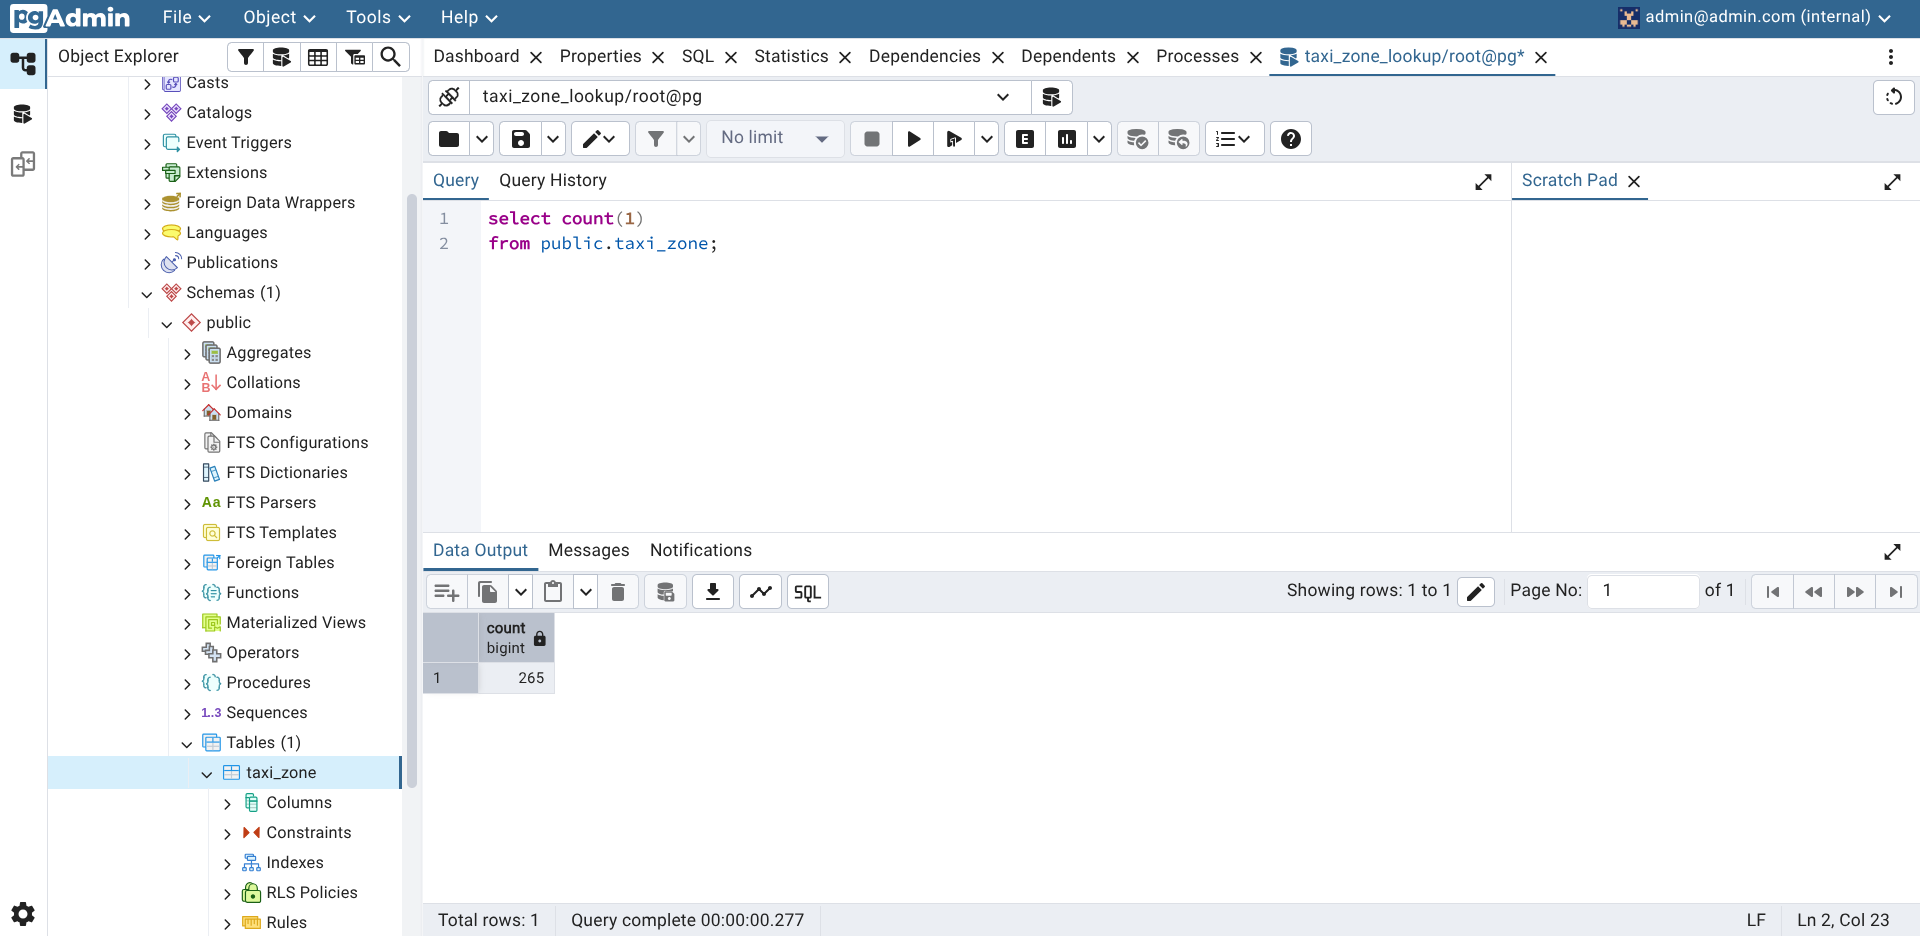
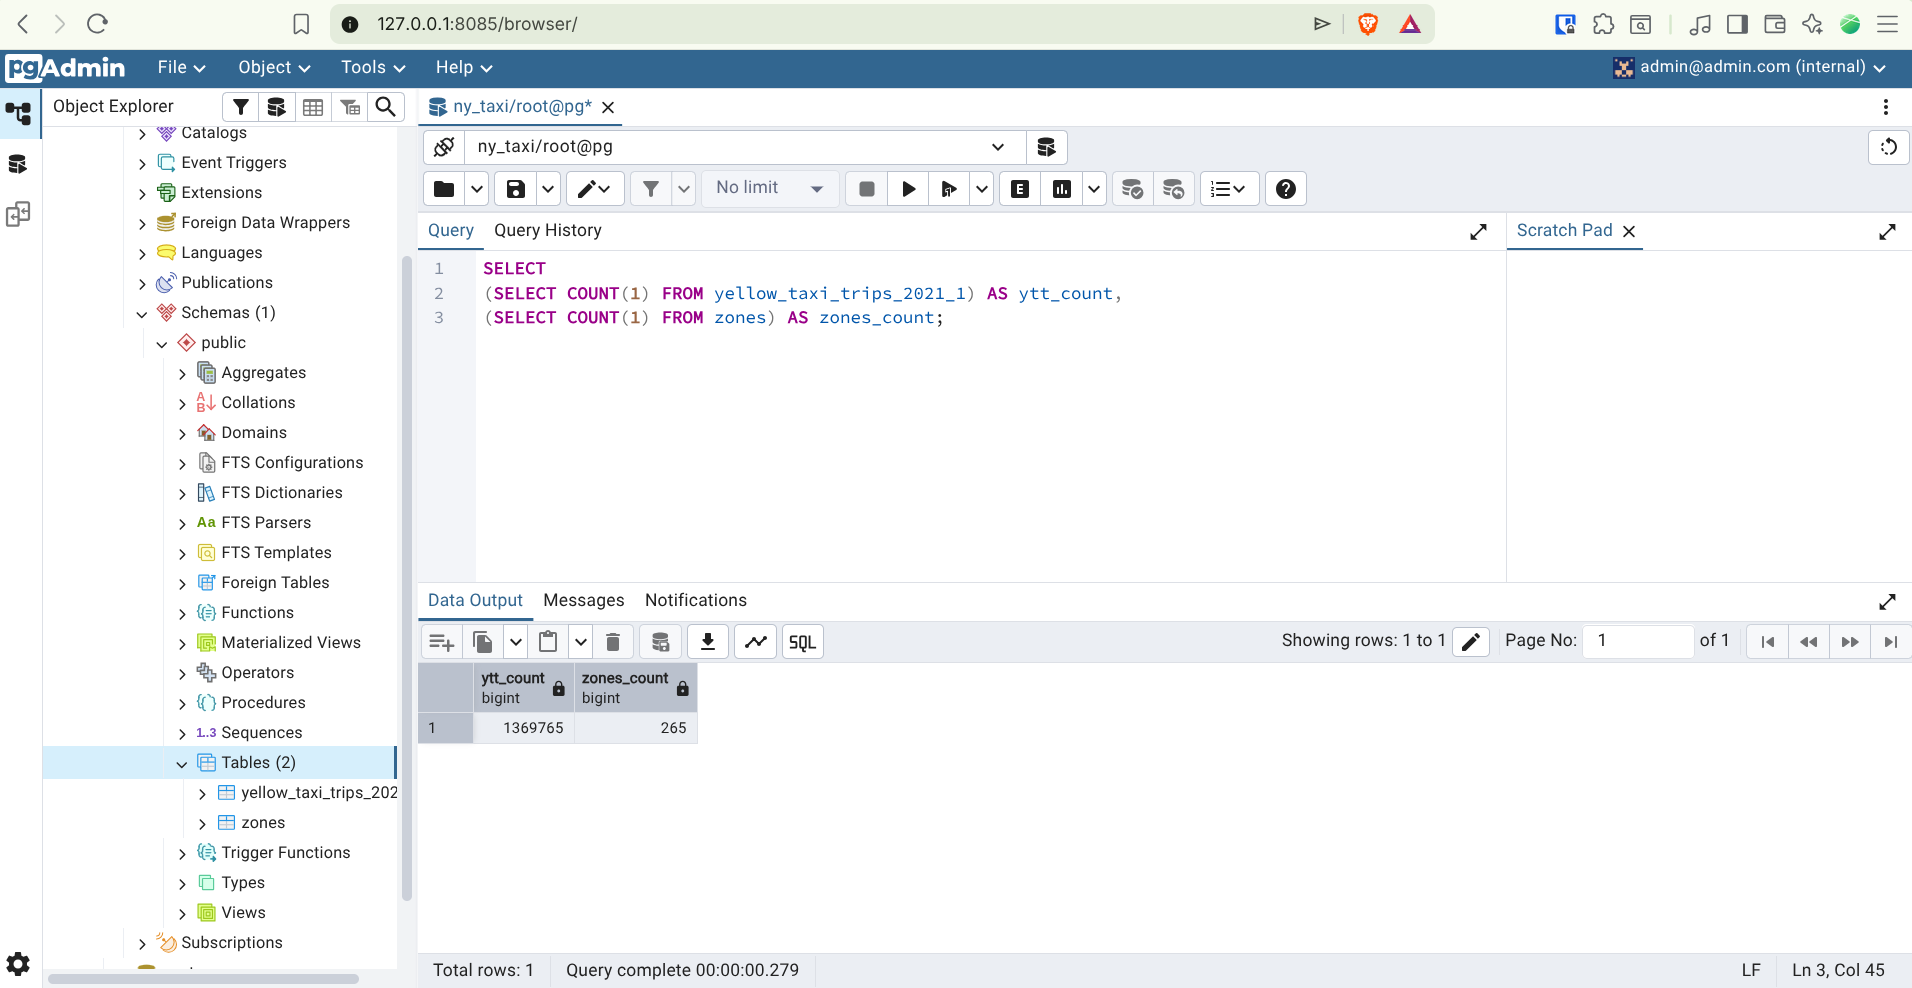
fix naming mismatch

diff --git a/module-01/sql/get_data.py b/module-01/sql/get_data.py
@@ -9,9 +9,9 @@ import click
 @click.option('--pg-user', envvar="PG_USER", default="root")
 @click.option('--pg-pass', envvar="PG_PASS", default="root")
 @click.option('--pg-host', envvar="PG_HOST", default="pgdatabase")
-@click.option('--pg-db', envvar="PG_DB", default="taxi_zone_lookup")
+@click.option('--pg-db', envvar="PG_DB", default="ny_taxi")
 @click.option('--pg-port', envvar="PG_PORT", default=5432)
-@click.option('--target-table', envvar="TARGET_TABLE", default="taxi_zone")
+@click.option('--target-table', envvar="TARGET_TABLE", default="zones")
 def run(pg_user, pg_pass, pg_host, pg_db, pg_port, target_table):
     url = "https://d37ci6vzurychx.cloudfront.net/misc/taxi_zone_lookup.csv"
     df_zones = pd.read_csv(url)
